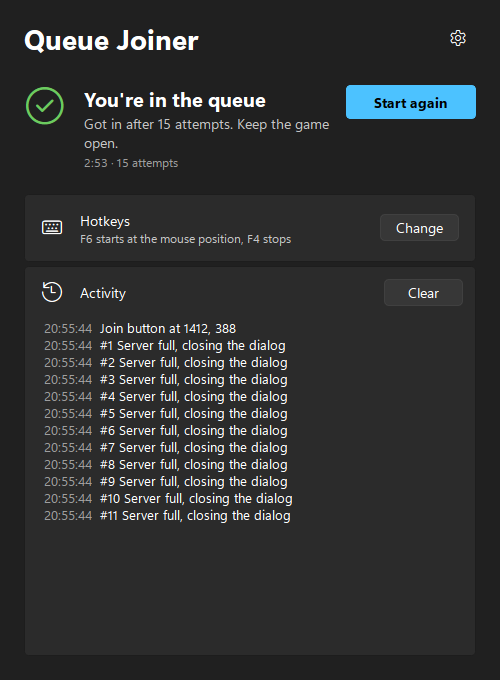
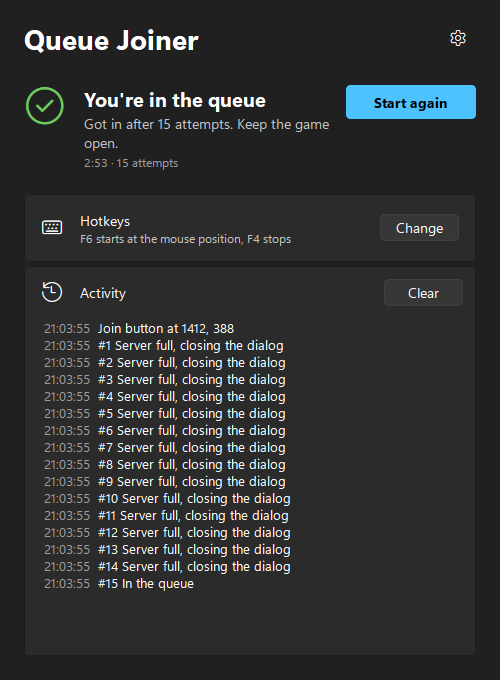
Use English screenshots in the README
Both README images now show the English UI, and the activity log in the
main screenshot matches the 15 attempts in the status line.

Changed region(s): [[0.09, 0.4632, 0.6, 0.8647]]

diff --git a/README.md b/README.md
@@ -8,7 +8,7 @@ Keeps pressing **Join** on a full Arma Reforger server until you get into the qu
 
 <p>
   <img src="assets/screenshot-main.png" width="360" alt="Main page after getting into the queue, dark theme">
-  <img src="assets/screenshot-settings.png" width="360" alt="Settings page in Ukrainian, light theme">
+  <img src="assets/screenshot-settings.png" width="360" alt="Settings page, light theme">
 </p>
 
 ## Download
